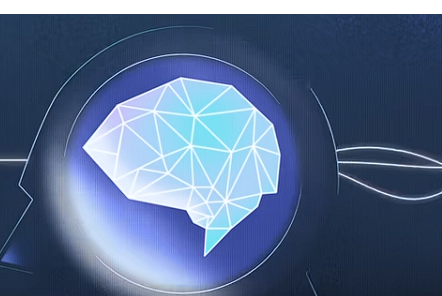
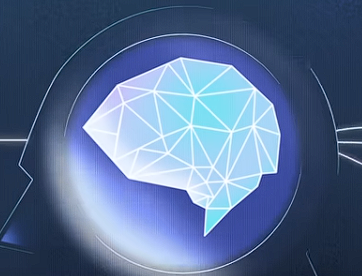
beute1

diff --git a/chat/templates/chat/chat.html b/chat/templates/chat/chat.html
@@ -1,11 +1,20 @@
 {% extends 'chat/base.html' %}
+{% load static %}
 
 {% block title %}Чат с ботом{% endblock %}
 
 {% block content %}
 <style>
+    /*
+    ФОН СТРАНИЦЫ
+    */
     body {
-        background: linear-gradient(135deg, #667eea 0%, #764ba2 100%);
+
+        background-image: url('{% static "img5.png" %}');
+        background-size: cover;
+        background-position: center;
+        background-attachment: fixed;
+
         min-height: 100vh;
     }
 
@@ -34,6 +43,22 @@
         background-color: #555;
         cursor: wait;
     }
+
+    /*
+
+    КАРТИНКА В ОКНЕ ЧАТА
+
+    */
+    .chat-header-image {
+        width: 100%;
+        max-width: 800px;
+        height: 300px;
+        object-fit: cover;
+        border-radius: 10px;
+        margin: 0 auto 20px auto;
+        display: block;
+        box-shadow: 0 4px 8px rgba(0,0,0,0.1);
+    }
 </style>
 
 <h1 style="color: white; text-align: center;">Чат с ботом</h1>
@@ -45,10 +70,21 @@
     height: 400px;
     overflow-y: auto;
     padding: 15px;
-    background-color: white;
+    background-color: transparent;
     margin-bottom: 20px;
     box-shadow: 0 4px 6px rgba(0,0,0,0.1);
 ">
+    <!--
+
+    КАРТИНКА В НАЧАЛЕ ЧАТА
+
+    -->
+    <img
+        src="{% static 'img3.png' %}"
+        alt="Чат-бот"
+        class="chat-header-image"
+    />
+
     <p style="color: #999; text-align: center;">Начните общение с ботом</p>
 </div>
 
@@ -127,7 +163,7 @@
     function displayMessage(userMsg, botMsg) {
         const chatDiv = document.getElementById('chat-messages');
 
-        // Удаляем приветствие при первом сообщении
+        // Удаляем приветствие и картинку при первом сообщении
         if (chatDiv.innerHTML.includes('Начните общение')) {
             chatDiv.innerHTML = '';
         }

diff --git a/chat/templates/chat/about.html b/chat/templates/chat/about.html
@@ -181,7 +181,7 @@
         <div class="card">
             <!-- ФОТО 3:  -->
             <img
-                src="{% static 'img3.png' %}"
+                src="{% static 'img4.png' %}"
                 alt="<База>"
                 class="card-image"
             />
